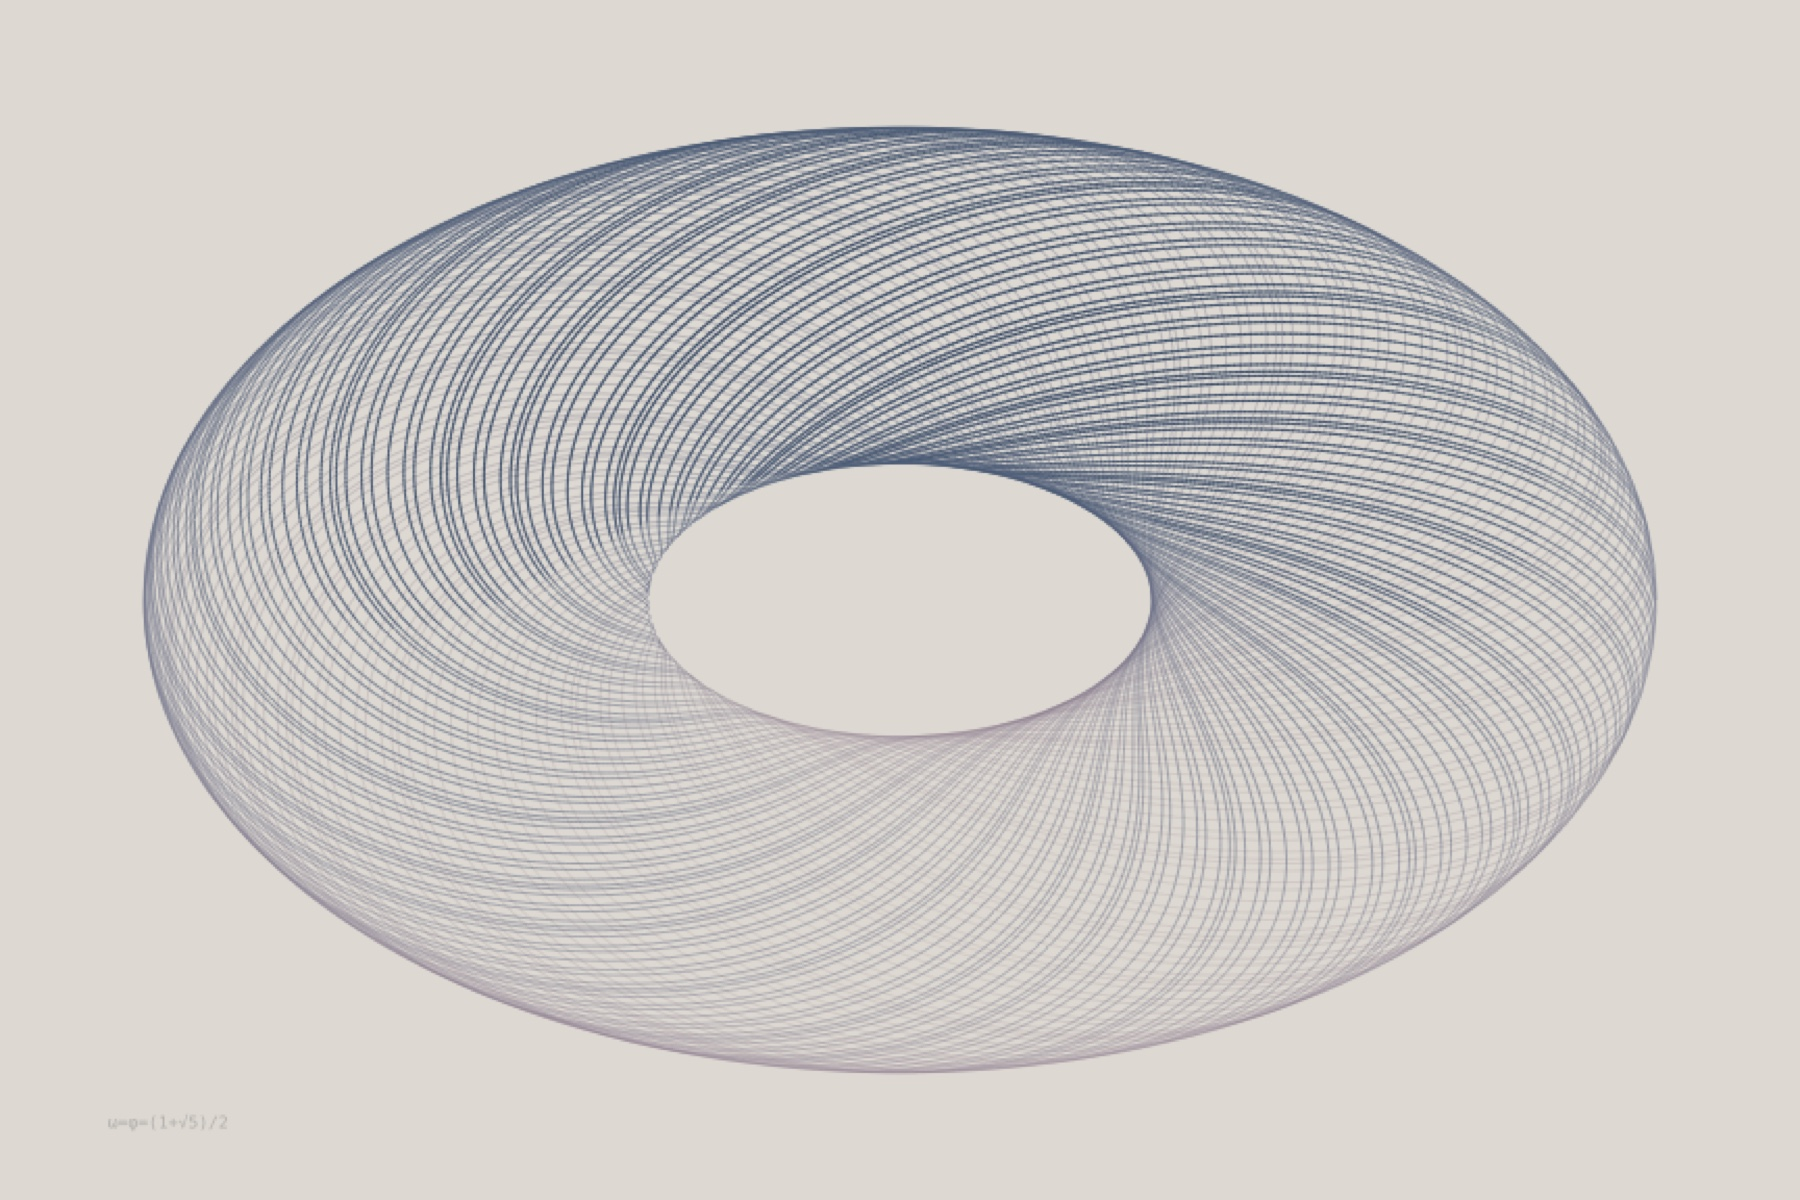
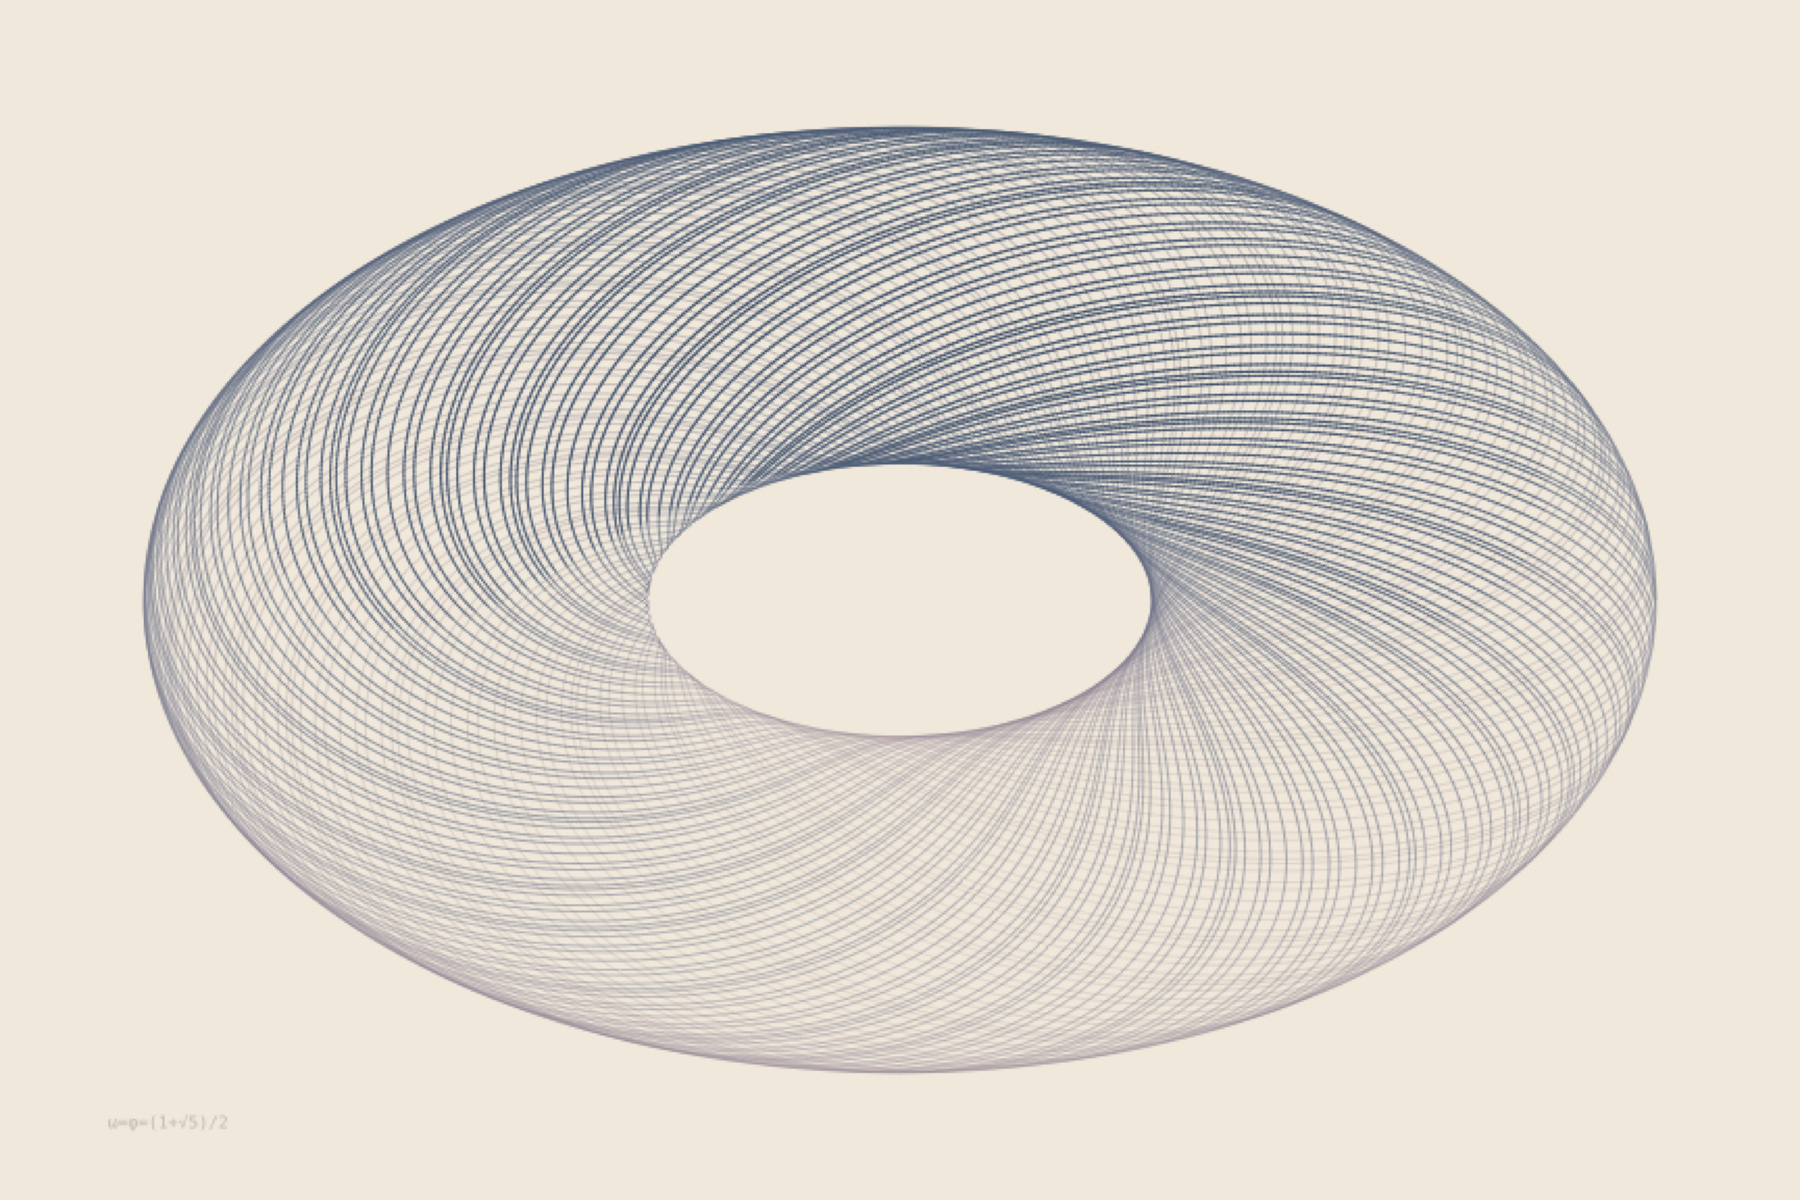
Align cycles_toroid background to series standard (#F0E8DA)

diff --git a/mathematical_affect/pieces/cycles/cycles_toroid.py b/mathematical_affect/pieces/cycles/cycles_toroid.py
@@ -26,7 +26,7 @@ OUTPUT_DIR = os.path.join(SCRIPT_DIR, '..', '..', 'output')
 DPI = 300
 FIG_W = 12
 FIG_H = 8
-BG_COLOR = '#DDD9D2'
+BG_COLOR = '#F0E8DA'
 
 
 def render():
